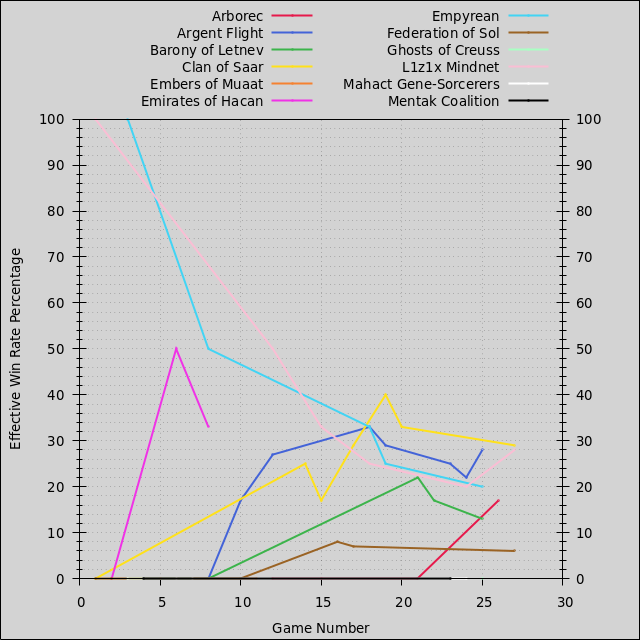
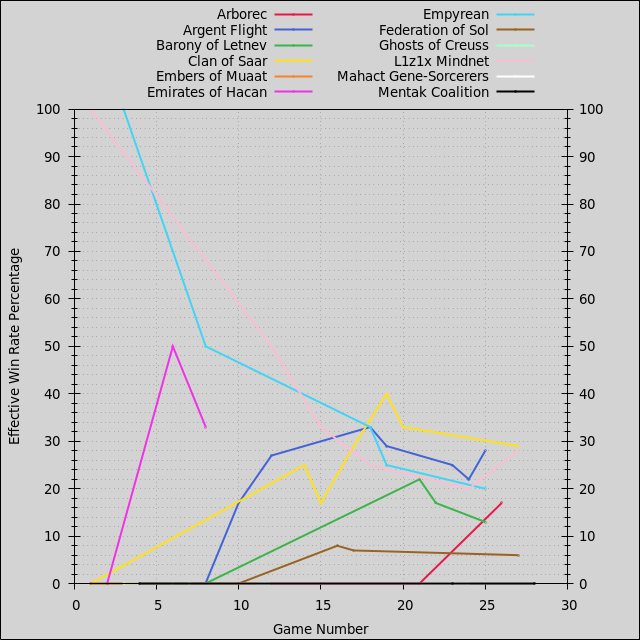
Update leaderboard.

diff --git a/leaderboard/README.md b/leaderboard/README.md
@@ -4,7 +4,7 @@
 - [Games](#games)
 - [License](#license)
 
-Last updated 2022-05-13 02:24 UTC.
+Last updated 2023-07-30 01:35 UTC.
 
 # Players
 
@@ -19,18 +19,19 @@ Last updated 2022-05-13 02:24 UTC.
 
 | **Player** | **Games** | **Curr. Rating** | **Avg Rating** | **Avg Pts.** | **Win Rate** | **1st Place** | **2nd Place** | **3rd Place** |
 | :--- | :---: | :---: | :---: | :---: | :---: | :---: | :---: | :---: |
-| PA | 16 | 1237 | 1225 | 9.25 | 48% | 56% (9) | 25% (4) | 6% (1) |
-| AlexC | 27 | 1095 | 1087 | 8.07 | 11% | 15% (4) | 33% (9) | 37% (10) |
+| PA | 17 | 1296 | 1230 | 9.29 | 51% | 59% (10) | 24% (4) | 6% (1) |
+| AlexC | 28 | 1103 | 1087 | 8.07 | 11% | 14% (4) | 32% (9) | 39% (11) |
 | Rob | 7 | 988 | 1053 | 8.29 | 21% | 29% (2) | 14% (1) | 14% (1) |
 | Scott | 2 | 1095 | 1050 | 9.50 | 0% | 0% (0) | 100% (2) | 0% (0) |
 | Jess | 1 | 1044 | 1044 | 4.00 | 0% | 0% (0) | 0% (0) | 100% (1) |
-| Wendi | 22 | 1060 | 1038 | 7.59 | 13% | 18% (4) | 18% (4) | 18% (4) |
-| Andy | 9 | 894 | 1035 | 8.11 | 13% | 11% (1) | 11% (1) | 33% (3) |
+| Wendi | 23 | 1132 | 1042 | 7.61 | 12% | 17% (4) | 22% (5) | 17% (4) |
+| Andy | 10 | 931 | 1025 | 7.90 | 12% | 10% (1) | 10% (1) | 30% (3) |
 | Ronan | 15 | 1216 | 1019 | 7.87 | 21% | 27% (4) | 13% (2) | 13% (2) |
 | Jay | 1 | 991 | 991 | 4.00 | 0% | 0% (0) | 0% (0) | 0% (0) |
 | AlexP | 7 | 1153 | 981 | 6.71 | 14% | 14% (1) | 14% (1) | 14% (1) |
-| Rachel | 3 | 886 | 915 | 5.33 | 0% | 0% (0) | 0% (0) | 33% (1) |
+| Joseph | 1 | 935 | 935 | 4.00 | 0% | 0% (0) | 0% (0) | 0% (0) |
 | Nick | 19 | 1067 | 894 | 6.42 | 7% | 11% (2) | 16% (3) | 16% (3) |
+| Rachel | 4 | 804 | 887 | 4.75 | 0% | 0% (0) | 0% (0) | 25% (1) |
 | Eftychi | 1 | 868 | 868 | 0.00 | 0% | 0% (0) | 0% (0) | 0% (0) |
 
 Average victory points per game are adjusted relative to 10-point games, and effective win rates are calculated relative to 6-player games.
@@ -73,21 +74,21 @@ Effective win rates are calculated relative to 6-player games.
 | **Faction** | **Games** | **Curr. Rating** | **Avg Rating** | **Avg Pts.** | **Win Rate** | **1st Place** | **2nd Place** | **3rd Place** |
 | :--- | :---: | :---: | :---: | :---: | :---: | :---: | :---: | :---: |
 | Clan of Saar | 7 | 1073 | 1160 | 8.86 | 29% | 43% (3) | 14% (1) | 29% (2) |
+| Naalu Collective | 4 | 1202 | 1131 | 8.75 | 42% | 50% (2) | 25% (1) | 0% (0) |
 | Argent Flight | 10 | 1122 | 1109 | 8.30 | 28% | 40% (4) | 20% (2) | 10% (1) |
-| Naalu Collective | 3 | 1140 | 1108 | 9.00 | 56% | 67% (2) | 0% (0) | 0% (0) |
+| Winnu | 5 | 1131 | 1094 | 7.40 | 27% | 40% (2) | 0% (0) | 60% (3) |
 | Sardakk N'orr | 4 | 1114 | 1090 | 6.75 | 25% | 25% (1) | 25% (1) | 25% (1) |
-| Winnu | 4 | 1103 | 1085 | 7.25 | 33% | 50% (2) | 0% (0) | 50% (2) |
 | Titans of Ul | 5 | 1121 | 1075 | 9.20 | 30% | 40% (2) | 20% (1) | 20% (1) |
 | L1z1x Mindnet | 6 | 1132 | 1075 | 8.17 | 28% | 33% (2) | 33% (2) | 17% (1) |
 | Ghosts of Creuss | 1 | 1071 | 1071 | 9.00 | 0% | 0% (0) | 100% (1) | 0% (0) |
+| Yssaril Tribes | 4 | 1178 | 1054 | 8.50 | 25% | 25% (1) | 25% (1) | 25% (1) |
 | Emirates of Hacan | 3 | 930 | 1051 | 7.33 | 33% | 33% (1) | 33% (1) | 0% (0) |
-| Naaz-Rokha Alliance | 8 | 932 | 1050 | 7.50 | 19% | 25% (2) | 12% (1) | 25% (2) |
 | Arborec | 4 | 1154 | 1045 | 8.25 | 17% | 25% (1) | 50% (2) | 0% (0) |
-| Mentak Coalition | 2 | 1092 | 1033 | 8.00 | 0% | 0% (0) | 50% (1) | 50% (1) |
-| Universities of Jol-Nar | 7 | 1162 | 1027 | 7.14 | 17% | 14% (1) | 29% (2) | 14% (1) |
+| Universities of Jol-Nar | 8 | 1110 | 1038 | 7.00 | 15% | 12% (1) | 25% (2) | 12% (1) |
+| Naaz-Rokha Alliance | 9 | 855 | 1029 | 7.00 | 17% | 22% (2) | 11% (1) | 22% (2) |
+| Mentak Coalition | 3 | 1013 | 1026 | 6.67 | 0% | 0% (0) | 33% (1) | 33% (1) |
 | Federation of Sol | 8 | 1012 | 1026 | 8.38 | 6% | 12% (1) | 0% (0) | 88% (7) |
 | Empyrean | 5 | 889 | 1019 | 7.20 | 20% | 20% (1) | 0% (0) | 0% (0) |
-| Yssaril Tribes | 3 | 1021 | 1013 | 8.00 | 0% | 0% (0) | 33% (1) | 33% (1) |
 | Xxcha Kingdom | 3 | 1005 | 991 | 7.67 | 0% | 0% (0) | 67% (2) | 0% (0) |
 | Barony of Letnev | 5 | 953 | 967 | 7.60 | 13% | 20% (1) | 0% (0) | 20% (1) |
 | Mahact Gene-Sorcerers | 5 | 933 | 958 | 6.20 | 0% | 0% (0) | 40% (2) | 20% (1) |
@@ -139,6 +140,7 @@ Effective win rates are calculated relative to 6-player games.
 
 | **Game** | **Date** | **Mode** | **Points** | **Players** | **Results** |
 | :---: | :---: | :---: | :---: | :---: | :--- |
+| 28 | 2023-07-29 | Free-for-All | 10 | 6 | 14h00m, 1st PA 10 Yssaril Tribes, 2nd Wendi 8 Naalu Collective, 3rd AlexC 8 Winnu, 4th Andy 6 Universities of Jol-Nar, 5th Joseph 4 Mentak Coalition, 6th Rachel 3 Naaz-Rokha Alliance |
 | 27 | 2022-02-12 | Free-for-All | 10 | 4 | 10h45m, 1st Ronan 10 L1z1x Mindnet, 2nd Wendi 10 Nomad, 3rd AlexC 10 Federation of Sol, 4th Rob 7 Clan of Saar |
 | 26 | 2022-01-22 | Free-for-All | 10 | 4 | 11h15m, 1st Nick 10 Arborec, 2nd Ronan 9 Sardakk N'orr, 3rd AlexC 9 Yssaril Tribes, 4th Rob 5 Vuil'raith Cabal |
 | 25 | 2021-12-27 | Free-for-All | 10 | 5 | 8h30m, 1st Rob 10 Argent Flight, 2nd PA 9 Ghosts of Creuss, 3rd AlexC 9 Winnu, 4th Wendi 8 Barony of Letnev, 5th Andy 7 Empyrean |
